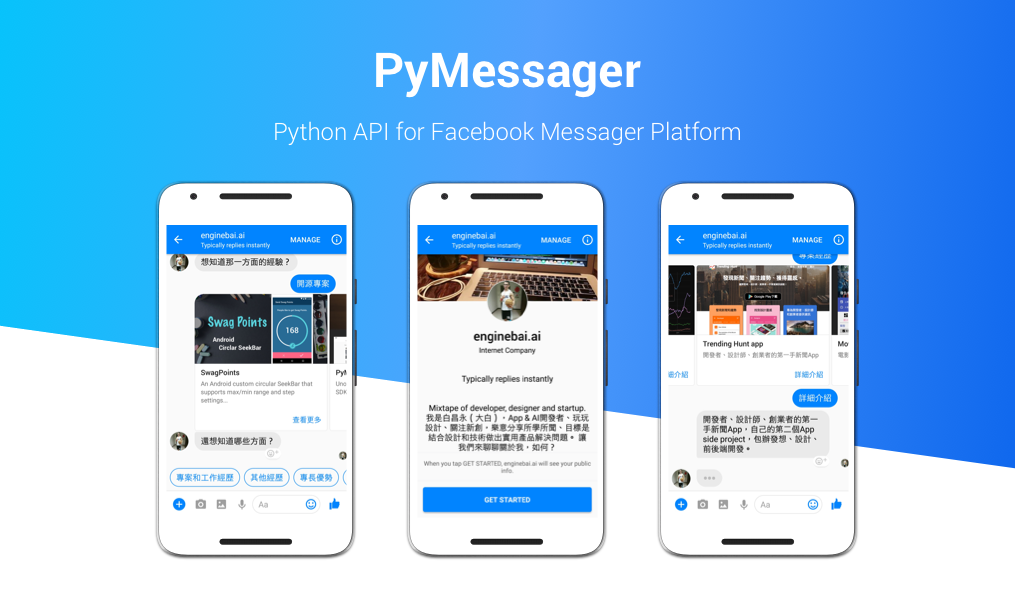
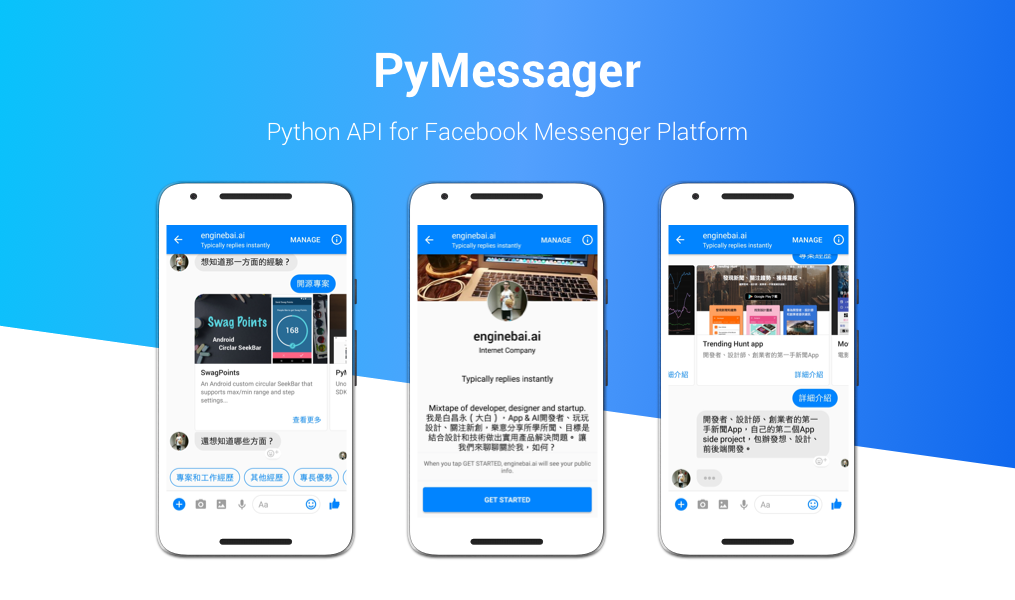
Fix typo and old usage code sample

Changed region(s): [[0.2443, 0.21, 0.733, 0.24]]

diff --git a/pymessager/message.py b/pymessager/message.py
@@ -4,7 +4,6 @@ import json
 from enum import Enum
 
 import requests
-import config
 
 __author__ = "enginebai"
 
@@ -70,7 +69,7 @@ class ActionButton:
     def to_dict(self):
         button_dict = dict()
         button_dict[TYPE_FIELD] = self.button_type.value
-        if self.title:s
+        if self.title:
             button_dict[TITLE_FIELD] = self.title
         if self.url is not None:
             button_dict[URL_FIELD] = self.url

diff --git a/README.md b/README.md
@@ -3,7 +3,7 @@
 [![License: MIT](https://img.shields.io/badge/License-MIT-yellow.svg)](https://opensource.org/licenses/MIT)
 [![PyPI version](https://badge.fury.io/py/PyMessager.svg)](https://badge.fury.io/py/PyMessager)
 
-PyMessager is a sample project using [Facebook Messenger](https://developers.facebook.com/docs/messenger-platform) Python SDK to demonstrate how to develop a bot on Facebook Messenger.
+PyMessager is a Python API for [Facebook Messenger](https://developers.facebook.com/docs/messenger-platform) and a sample project to demonstrate how to develop a chatbot on Facebook Messenger.
 
 ![](https://raw.githubusercontent.com/enginebai/PyMessager/master/art/graphic.png)
 
@@ -35,14 +35,14 @@ $ pip install -r requirements.txt
 
 ### Import
 ```python
-from message import Messager, ... # something else you need
+from pymessager.message import Messager, ... # something else you need
 ```
 
 ### Initialization
 You can initialize a messager client via a Facebook Access Token from the developer console:
 
 ```python
-from message import Messager
+from pymessager.message import Messager
 client = Messager(config.facebook_access_token)
 ```
 
@@ -155,7 +155,7 @@ for project_id in projects.keys():
                          # Payload用Intent本身作為開頭
                          payload=Intent.PROJECTS.name + project_id)
         ]))
-self._messager.send_generic(recipient_id, project_list)
+client.send_generic(recipient_id, project_list)
 ```
 
 ## Utility APIs
@@ -193,7 +193,7 @@ Feel free to submit bug reports or feature requests and make sure you read the c
 
 	The MIT License (MIT)
 
-	Copyright © 2016 Engine Bai.
+	Copyright © 2017 Engine Bai.
 
 	Permission is hereby granted, free of charge, to any person obtaining a copy
 	of this software and associated documentation files (the "Software"), to deal

diff --git a/CONTRIBUTING.md b/CONTRIBUTING.md
@@ -1,0 +1,27 @@
+# Contribution Guidelines
+To get the greatest chance of helpful responses, please follow the below notes:
+
+1. Avoid raising duplicate issues. **Please** use the GitHub issue search feature
+   to check whether your bug report or feature request has been mentioned in
+   the past at first. Duplicate bug reports and feature requests are a huge maintenance
+   burden on the limited resources of the project.
+2. When filing bug reports about exceptions or tracebacks, please include the
+   *complete* traceback. 
+3. Make sure you provide a suitable amount of information to work with. This
+   means you should provide:
+
+	- Steps on **how to reproduce the issue**. Ideally, this should be a
+     *small* code sample that can be run immediately by the maintainers.
+     Failing that, let us know what you're doing, how often it happens, what
+     environment you're using, etc.
+	- Tell us **what you expected to happen**. When we run your example code,
+     what are we expecting to happen? What does "success" look like for your
+     code?
+	- Tell us **what actually happens**. It's not helpful for you to say "it
+     doesn't work" or "it fails". Tell us *how* it fails: do you get an
+     exception? A hang? A non-200 status code? How was the actual result
+     different from your expected result. 
+	
+If you do not provide all of these things, it will take us much longer to
+   fix your problem. If we ask you to clarify these and you never respond, we
+   will close your issue without fixing it.
